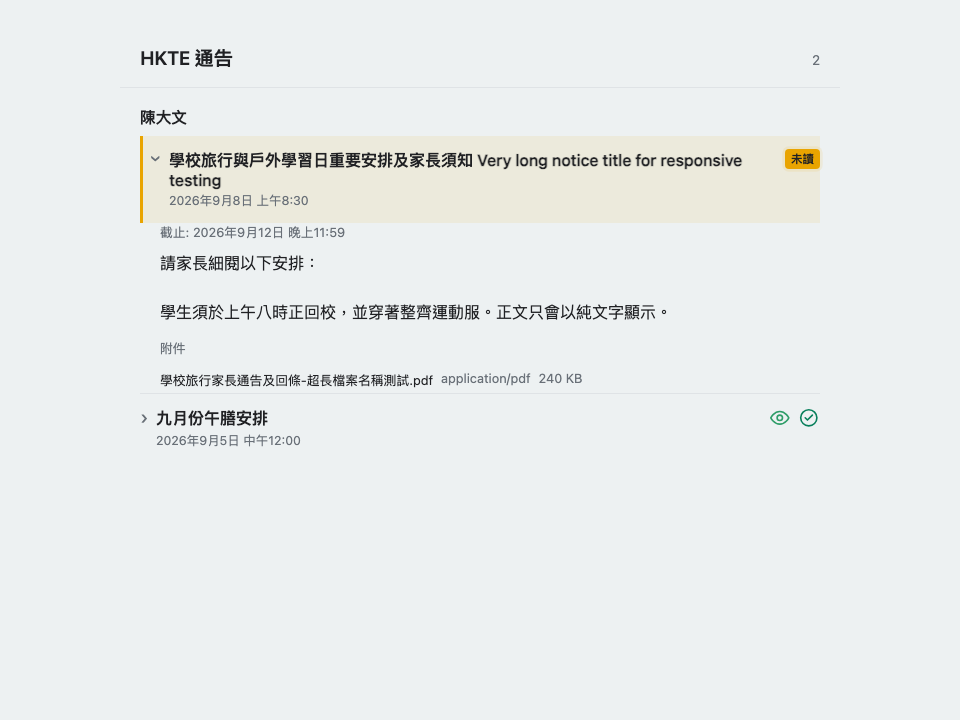
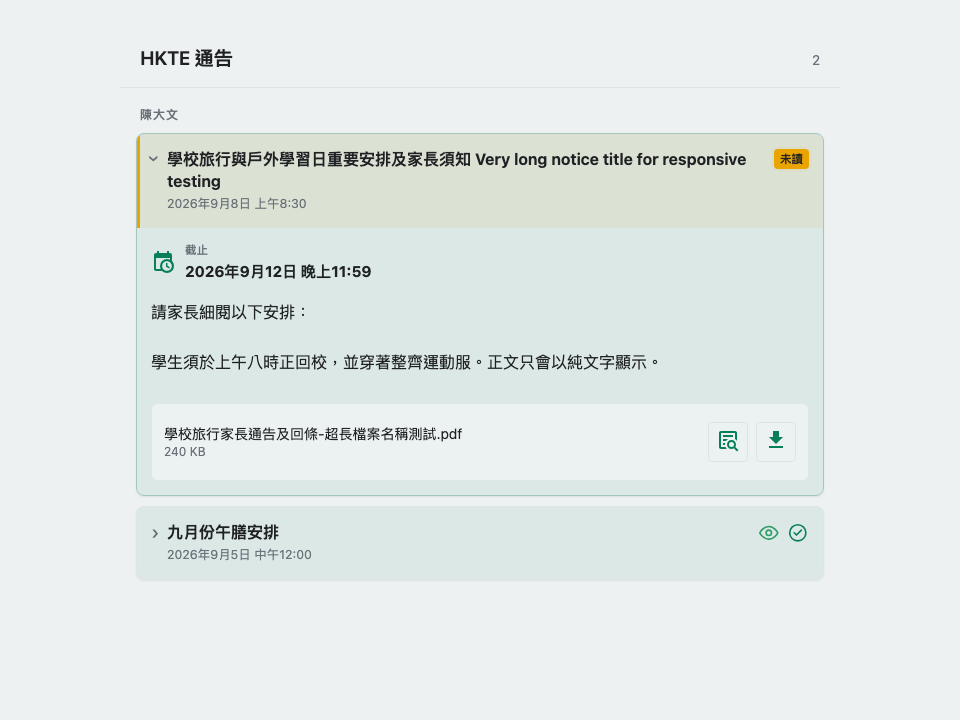
Refresh preview and simplify README branding

diff --git a/demo/index.html b/demo/index.html
@@ -42,17 +42,36 @@
     <hkte-notices-card id="card"></hkte-notices-card>
     <script type="module">
       import "/src/index.ts";
+      import {
+        mdiCalendarClock,
+        mdiDownload,
+        mdiTextBoxSearchOutline,
+      } from "@mdi/js";
+      const iconPaths = {
+        "mdi:calendar-clock": mdiCalendarClock,
+        "mdi:download": mdiDownload,
+        "mdi:text-box-search-outline": mdiTextBoxSearchOutline,
+      };
       customElements.define(
         "ha-icon",
         class extends HTMLElement {
           connectedCallback() {
-            const icon = this.getAttribute("icon");
-            this.textContent =
-              icon === "mdi:download"
-                ? "↓"
-                : icon === "mdi:calendar-clock"
-                  ? "▣"
-                  : "AI";
+            const svg = document.createElementNS(
+              "http://www.w3.org/2000/svg",
+              "svg",
+            );
+            svg.setAttribute("viewBox", "0 0 24 24");
+            svg.setAttribute("width", "24");
+            svg.setAttribute("height", "24");
+            svg.setAttribute("fill", "currentColor");
+            svg.setAttribute("aria-hidden", "true");
+            const path = document.createElementNS(
+              "http://www.w3.org/2000/svg",
+              "path",
+            );
+            path.setAttribute("d", iconPaths[this.getAttribute("icon")] || "");
+            svg.append(path);
+            this.replaceChildren(svg);
           }
         },
       );

diff --git a/README.md b/README.md
@@ -1,18 +1,16 @@
 # HKTE Smart School Notices Card
 
-![HKTE Smart School integration icon](https://raw.githubusercontent.com/wfchan/hass-hkte-smart-school/main/custom_components/hkte_smart_school/brand/icon.png)
-
 Read-only Lovelace card for the [HKTE Smart School Home Assistant integration](https://github.com/wfchan/hass-hkte-smart-school).
 
 ## Card preview
 
 ![HKTE notices card layout using synthetic sample data](screenshots/card-layout.png)
 
-The preview uses synthetic sample content and contains no student data.
+The preview shows the current deadline and attachment controls with synthetic sample content and no real student data.
 
 ## HACS installation
 
-In HACS, add `https://github.com/wfchan/hass-hkte-smart-school-card` as a custom repository with category **Plugin**, install **HKTE Smart School Notices Card**, then add the generated resource when Home Assistant prompts you. Card **0.2.5** is the current release and requires integration **0.4.4** for downloads, AI summaries and automatic new-notice analysis.
+In HACS, add `https://github.com/wfchan/hass-hkte-smart-school-card` as a custom repository with category **Plugin**, install **HKTE Smart School Notices Card**, then add the generated resource when Home Assistant prompts you. The recommended pairing is card **0.2.6** with integration **0.4.5**. Downloads and manual AI summaries require integration **0.4.0** or newer; optional automatic new-notice analysis requires **0.4.3** or newer.
 
 ## Dashboard card
 
@@ -42,8 +40,6 @@ Download buttons work without AI configuration. Files are fetched with your HA l
 The card shows progress, safe errors, partial results and missing filenames. Traditional Chinese highlights, dates, costs, parent actions and questions are shown without attachment filenames or page-number references. Existing summaries are loaded without a new AI call, retained locally for 30 days, and marked stale after source changes. **重新分析** explicitly replaces a result. Each analysis permits 10 attachments, 40 MiB total and 20 pages; each download is limited to 20 MiB. Check summaries against original documents before acting.
 
 Version **0.2.5** gives deadlines a calendar icon and highlighted callout, and removes redundant horizontal separators between notice sections. Version **0.2.4** places the icon-only analyze/reanalyze action in the same attachment row as download and hides the `FILE` MIME label. Version **0.2.3** hides AI source filenames/page numbers and places the icon-only analyze/reanalyze action beside attachment controls. Version **0.2.2** presents each notice as a distinct responsive panel with separated header, deadline, body, attachments and AI summary regions. Version **0.2.1** validates API results before rendering: all five sections, bounded plain text and valid source/page references are required. Empty sections show **未提供 / Not provided**. Malformed results show a retryable error, while an existing valid summary stays visible. Use integration **0.4.3** for MiniMax-M3 reasoning separation, schema negotiation, bounded format retry, incomplete-response detection and automatic queued analysis of new notices. OpenAI-compatible models still need image-input support; consistent display is not a guarantee of factual accuracy.
-
-The integration's unofficial brand icon is generated artwork stored in its repository at `custom_components/hkte_smart_school/brand/icon.png`; it contains no school logo, student data or credentials.
 
 Downloads and summaries require entity read permission. API keys, downloaded bytes and summaries are not written into card configuration or entity state. See the integration README for privacy and storage details. `show_attachments` controls both metadata and download rows; it does not exclude files from whole-notice AI analysis.
 
